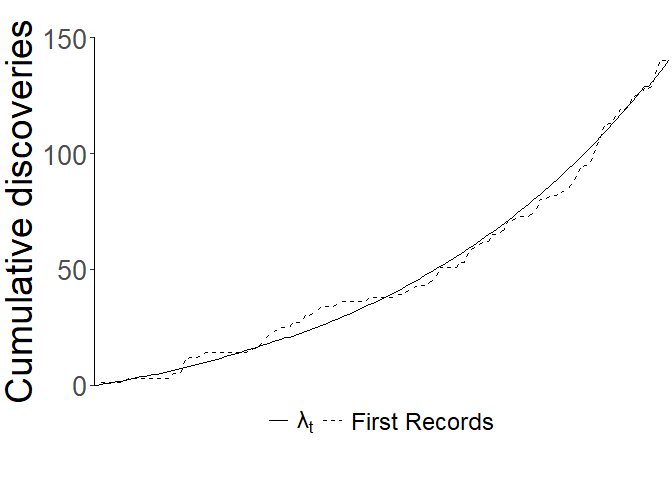
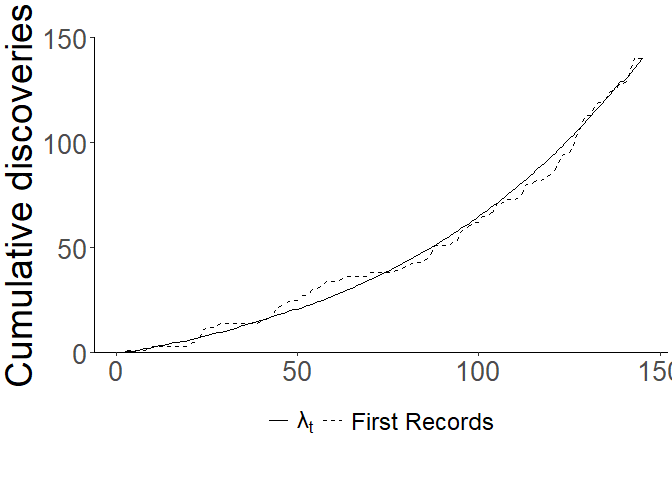
fixed X-axis in readme plot

diff --git a/README.md b/README.md
@@ -30,8 +30,6 @@ devtools::install_github("hezibu/alien")
 
 ## Basic Usage
 
-    #> Warning: package 'ggplot2' was built under R version 4.3.1
-
 For the most basic demonstration, let’s look at the data provided in
 Solow and Costello (2004) which describes discoveries of introduced
 species in the San Francisco estuary (California, USA) between the years
@@ -310,9 +308,10 @@ further:
 
 plot_snc(model, cumulative = T) +
   coord_cartesian(ylim = c(0,150))+
-  scale_x_continuous(expand = c(0,0), breaks = seq(1860, 1980, 20)) + 
   scale_y_continuous(expand = c(0,0), breaks = seq(0, 150, 50)) + 
-  ylab("Cumulative discoveries") + theme(axis.title.x = element_blank())
+  ylab("Cumulative discoveries") + 
+  xlab("Years since first record in data") + 
+  theme(axis.title.x = element_blank())
 ```
 
 <img src="man/figures/README-plotting_fit-1.png" width="80%" height="80%" style="display: block; margin: auto;" />
